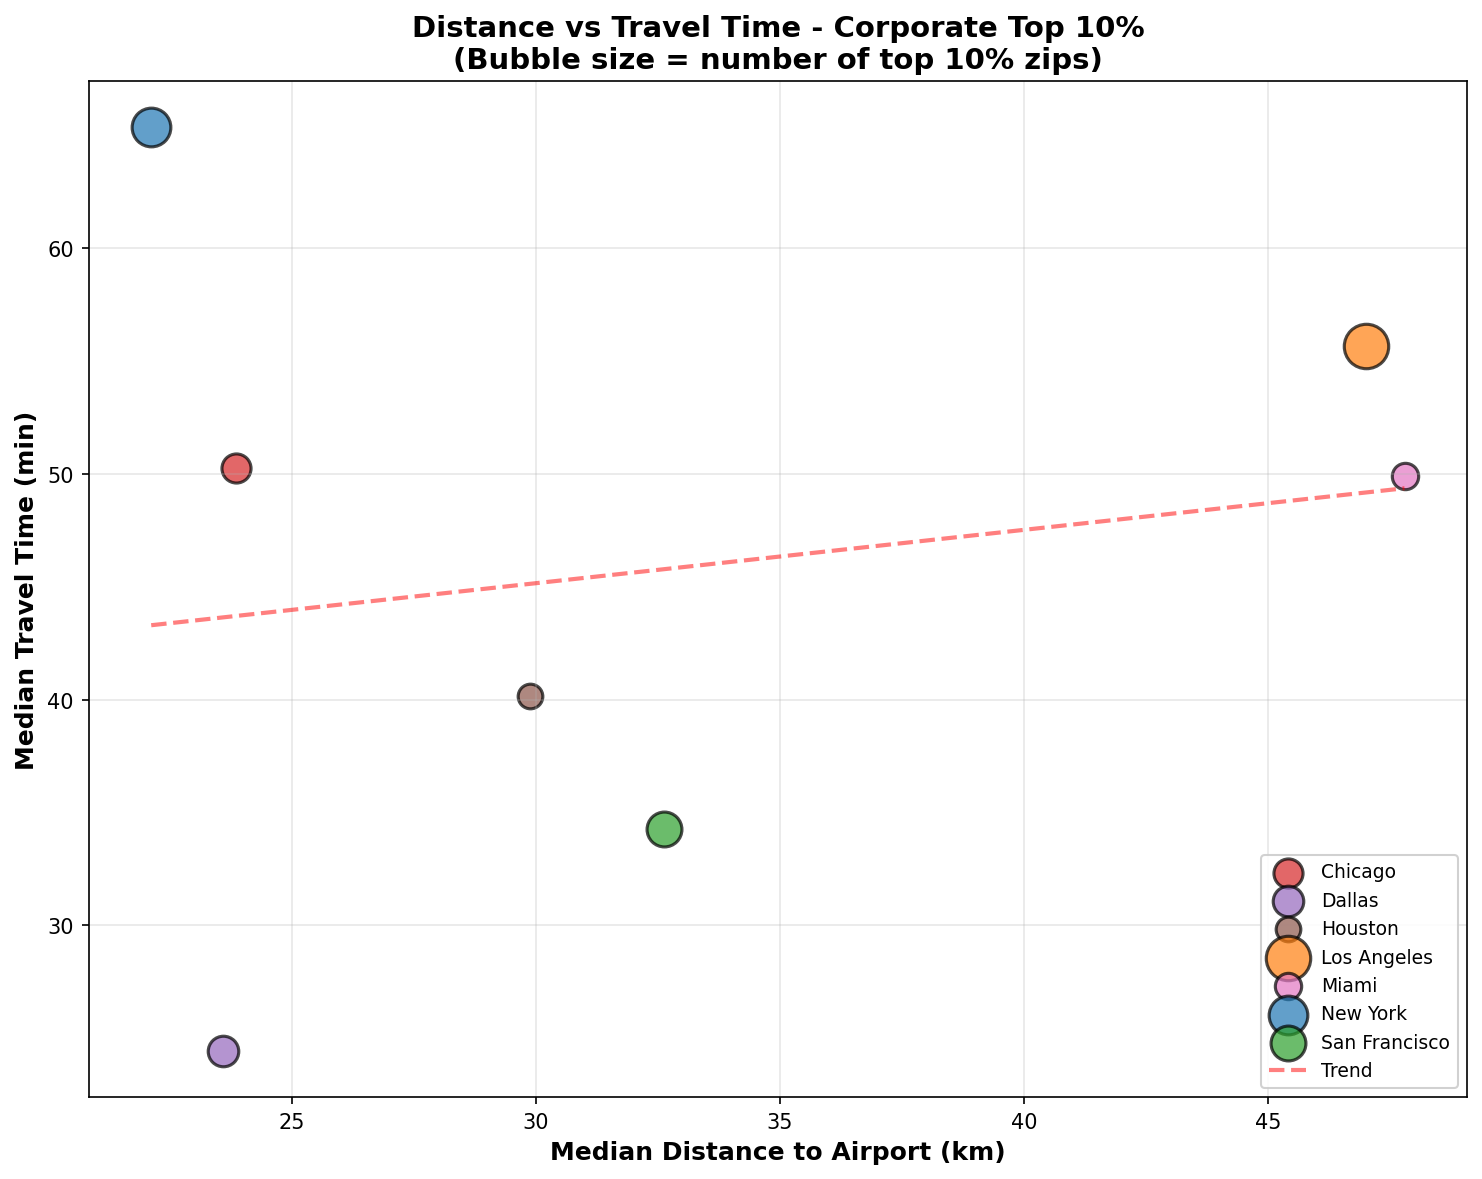
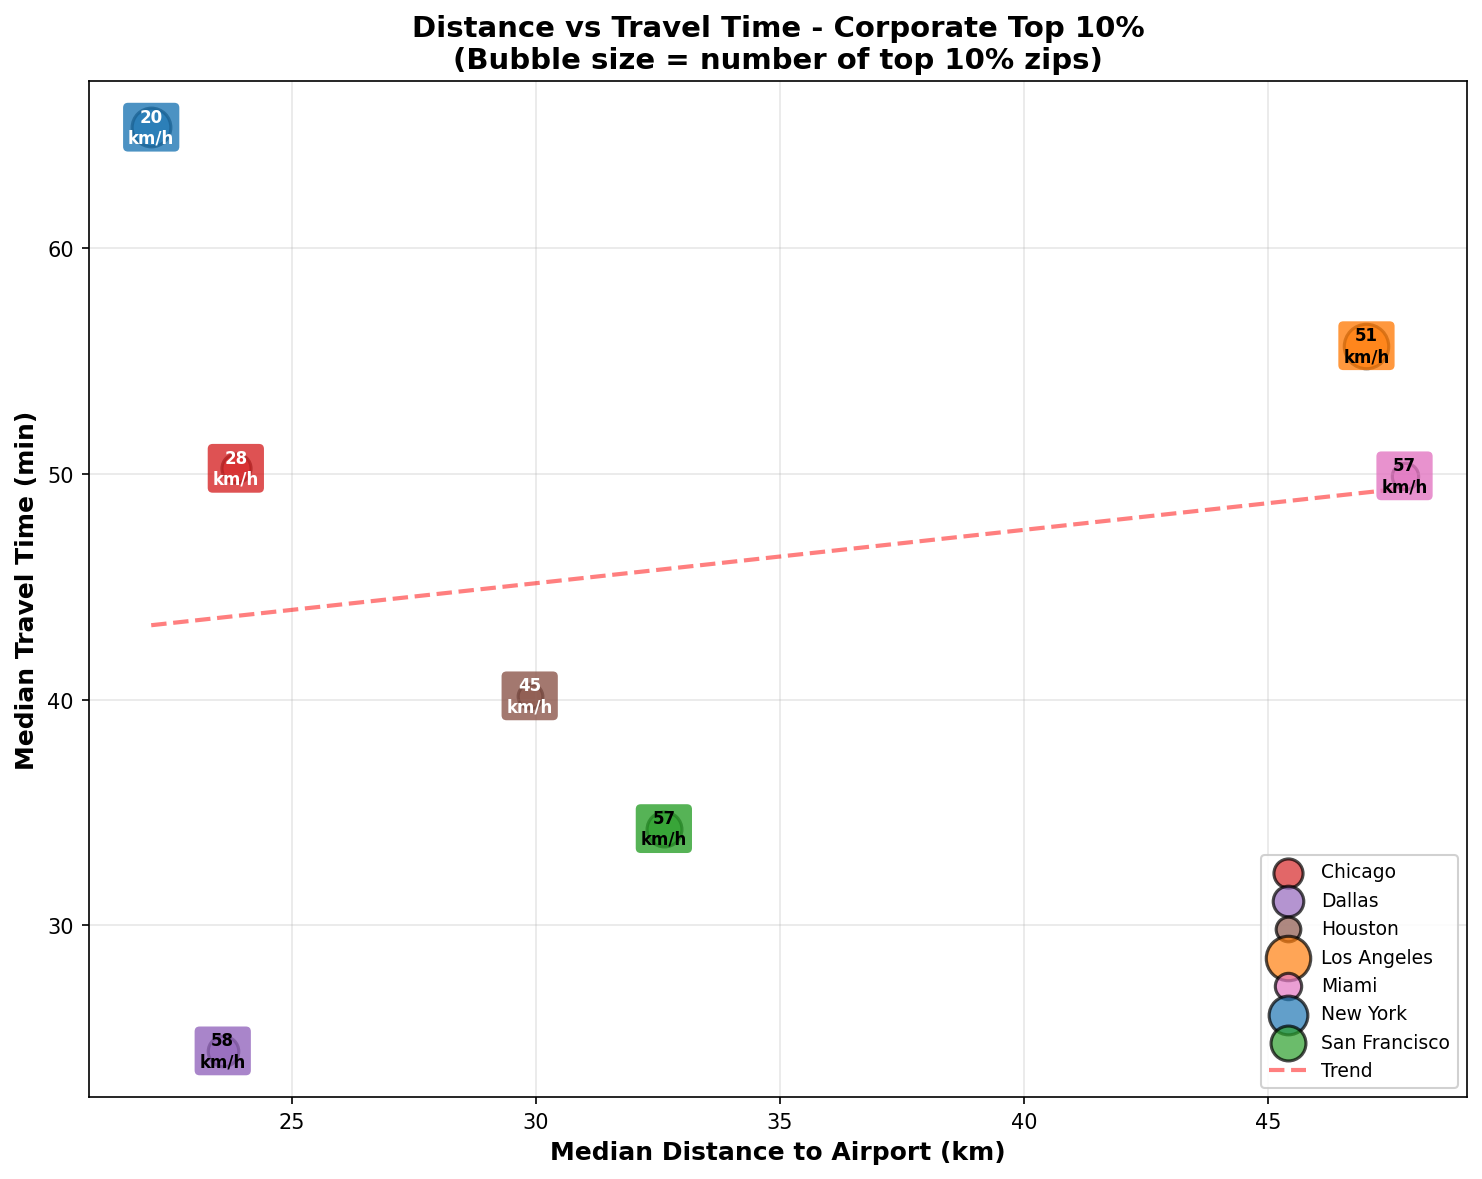
fix: Remove duplicate Distance vs Travel Time section and add speed labels
- Removed duplicate chart section from Household analysis
- Kept single section in Corporate analysis with all 3 charts
- Added average speed (km/h) labels on all scatter plot markers
- Speed displayed in colored boxes over each city bubble

Speed formula: speed = distance / (time/60)
Makes charts more informative showing traffic/congestion patterns.

diff --git a/10percent/dashboard_integrated.html b/10percent/dashboard_integrated.html
@@ -575,19 +575,6 @@
             <img src="distance_radius_analysis.png" class="chart-img" alt="Distance & Radius Analysis">
             <p><a href="distance_radius_analysis.csv" class="map-link">📥 Download Distance Data (CSV)</a></p>
             
-            <h3>Distance vs Travel Time Analysis</h3>
-            <p style="font-size: 13px; color: #666; margin-bottom: 15px;">
-                <strong>Note:</strong> Data has been cleaned to exclude entries with impossible speeds (> 120 km/h) or missing travel times.
-            </p>
-            <img src="combined_distance_vs_travel_time.png" class="chart-img" alt="Combined Distance vs Travel Time">
-            <p style="font-size: 13px; color: #666; margin-top: 10px;">
-                <strong>Combined Chart:</strong> Shows both Household (circles) and Corporate (squares) data together. Bubble size represents number of top 10% ZIPs.
-            </p>
-            <img src="distance_vs_travel_time_side_by_side.png" class="chart-img" alt="Distance vs Travel Time Side by Side">
-            <p style="font-size: 13px; color: #666; margin-top: 10px;">
-                <strong>Side-by-Side Comparison:</strong> Household and Corporate data shown separately for direct comparison.
-            </p>
-            
             <h3>Weighted Averages</h3>
             <img src="weighted_averages_chart.png" class="chart-img" alt="Weighted Averages">
             <p><a href="weighted_averages_analysis.csv" class="map-link">📥 Download Weighted Averages (CSV)</a></p>
